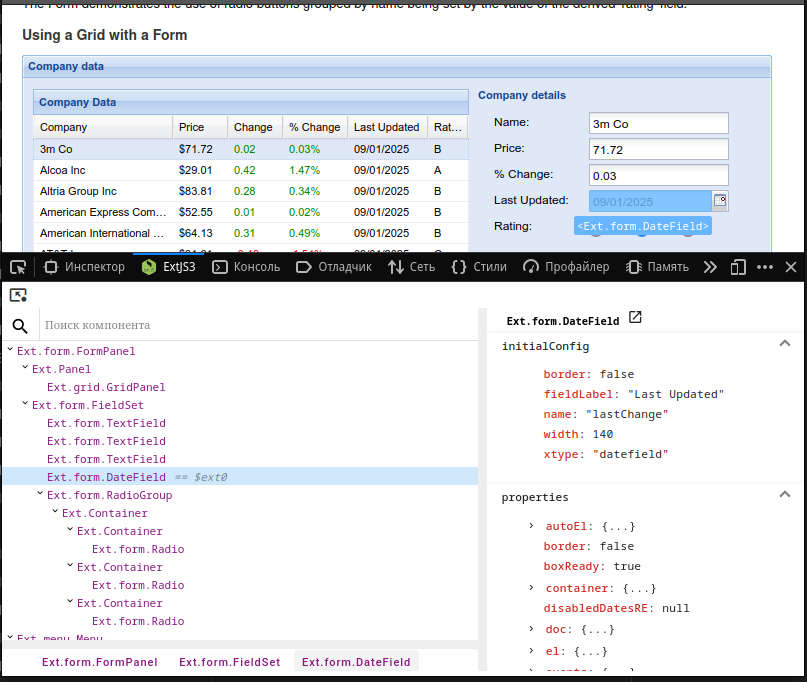
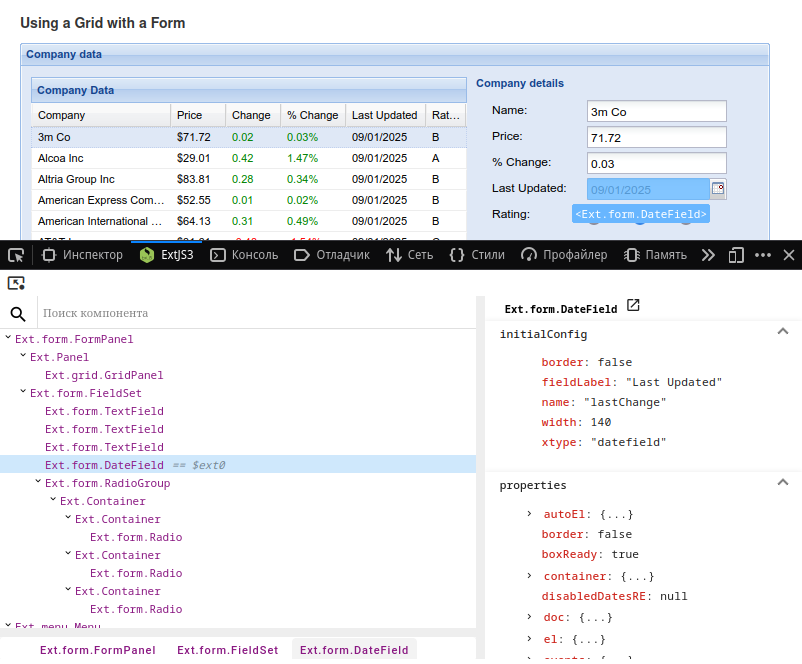
- fix выделение имени компонента - fix название таба в инструментах разработчика - fix обрезана главная картинка - улучшено определение компонентов в свойствах

Changed region(s): [[0.0, 0.0, 1.0, 1.0], [0.6546, 0.5422, 0.904, 0.6928], [0.6234, 0.4518, 0.8105, 0.512]]

diff --git a/src/page/state-serializer/prop-type.ts b/src/page/state-serializer/prop-type.ts
@@ -46,6 +46,6 @@ export const getPropType = (prop: unknown): PropType => {
   return PropType.Unknown;
 };
 
-const isComponentProp = (prop: any) => {
-  return prop.id && prop.superclass && (types.get(prop.constructor) || types.get(prop.superclass().constructor));
+const isComponentProp = (prop: object) => {
+  return window.Ext && prop instanceof window.Ext.Component;
 };

diff --git a/src/app/component-explorer/properties/properties.component.html b/src/app/component-explorer/properties/properties.component.html
@@ -2,7 +2,7 @@
   <div class="element-header">
     <div class="element-name">
       <div class="component-name">
-        {{ currentSelectedElement().type }}
+        <span>{{ currentSelectedElement().type }}</span>
         <a
           href="{{documentation()}}"
           target="_blank"

diff --git a/src/page/ext-js/ext-js.d.ts b/src/page/ext-js/ext-js.d.ts
@@ -34,6 +34,9 @@ declare global {
         types: Record<string, Function>,
       },
       isEmpty: (...args: any[]) => boolean,
+      Component: {
+        new(...args): any
+      }
     };
   }
 }

diff --git a/template/devtools.html b/template/devtools.html
@@ -2,7 +2,7 @@
 <html lang="en">
 <head>
   <meta charset="UTF-8">
-  <title>ExtJS3 DevTools</title>
+  <title>Ext JS 3 DevTools</title>
 </head>
 <body>
 <script src="devtools.js"></script>

diff --git a/template/devtools.js b/template/devtools.js
@@ -1,1 +1,1 @@
-chrome.devtools.panels.create("ExtJS3", "assets/icon.svg", "/devtools/index.html");
+chrome.devtools.panels.create("Ext JS 3", "assets/icon.svg", "/devtools/index.html");
